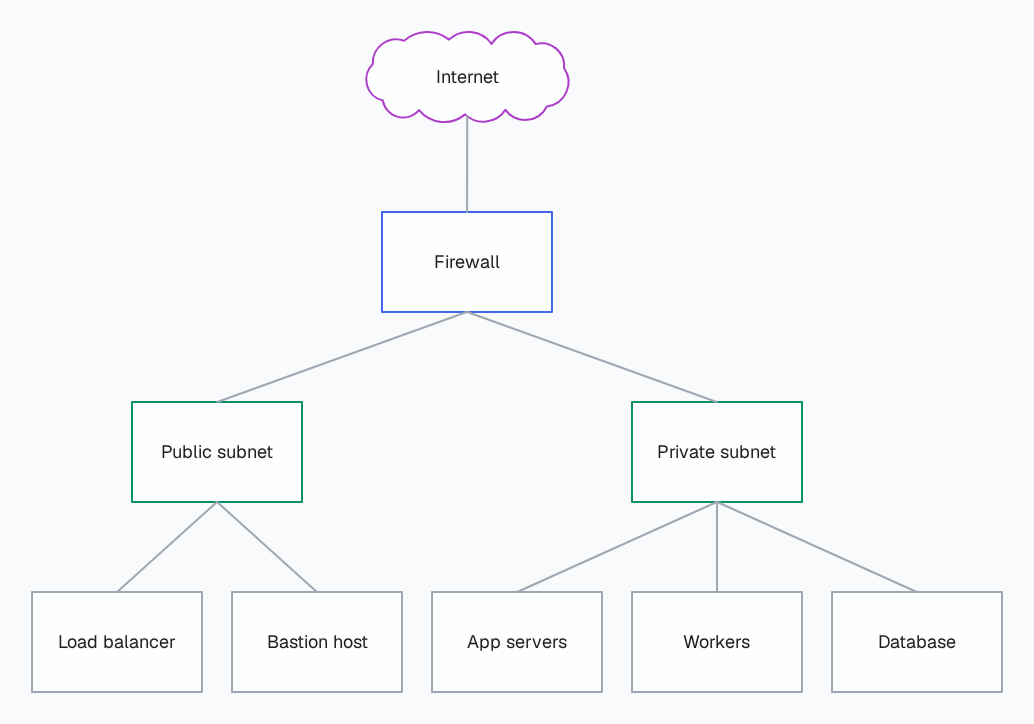
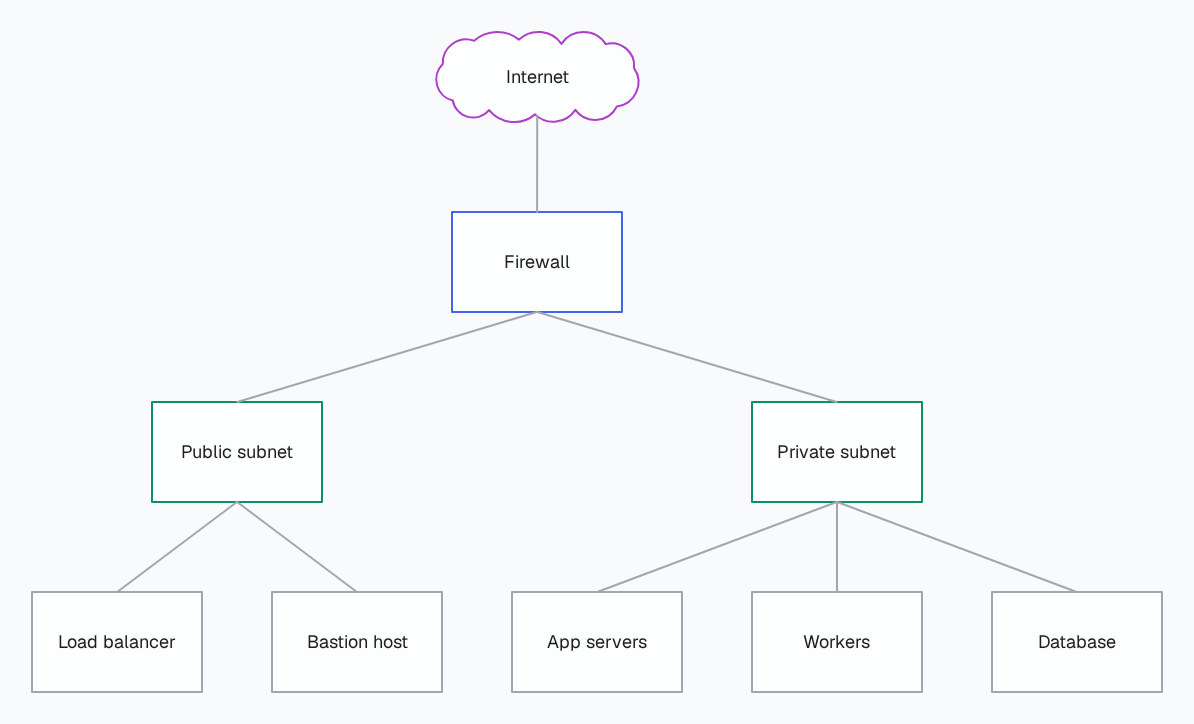
Fixes from review: drawing over a diagram, ids, sizes and timelines
A second drawing of the same kind took the first one's numbered keys and
rewrote it; it now lands beside it with a prefix, and --update is how to change
an earlier drawing. Repeated or non-Latin labels no longer collapse into one
box, and wide shapes no longer reach into a neighbour.

Lay it out again keeps people's box sizes, instead of growing diamonds on every
run, and handles nested frames and notes inside frames. Tidying leaves a
timeline's dates alone. A copied canvas keeps its type size, a duplicate keeps
its own key on both engines, redrawing updates arrows, and Excalidraw arrow
labels sit on the line whichever way it runs.

diff --git a/app/tidy.js b/app/tidy.js
@@ -3,6 +3,7 @@
 
 import { renderPlaintextFromRichText } from 'tldraw'
 import { LAYOUTS, sidesFor } from '../lib/layouts.mjs'
+import { getFormat } from './formats'
 
 export function makeTidy(editor, keyOf) {
 	const GRID = 10
@@ -39,6 +40,9 @@ export function makeTidy(editor, keyOf) {
 	const moved = (s, x, y) => Math.abs(s.x - x) > 0.5 || Math.abs(s.y - y) > 0.5
 
 	/** Boxes nearly in line are put in line: rows by their centres, then columns. */
+	// On a timeline a box's position and width are its dates, so tidying sideways would change what the diagram says.
+	const timed = () => getFormat()?.id === 'timeline'
+
 	function align({ tolerance = 40 } = {}) {
 		const at = new Map()
 		const pos = (s) => at.get(s.id) ?? { x: s.x, y: s.y }
@@ -56,7 +60,7 @@ export function makeTidy(editor, keyOf) {
 					const line = snap(median(row.map((s) => pos(s).y + local(s).h / 2)))
 					for (const s of row) set(s, { ...pos(s), y: line - local(s).h / 2 })
 				}
-				for (const col of clusters(group, (s) => pos(s).x + local(s).w / 2, tolerance)) {
+				for (const col of timed() ? [] : clusters(group, (s) => pos(s).x + local(s).w / 2, tolerance)) {
 					if (col.length < 2) continue
 					const line = snap(median(col.map((s) => pos(s).x + local(s).w / 2)))
 					for (const s of col) set(s, { ...pos(s), x: line - local(s).w / 2 })
@@ -85,7 +89,7 @@ export function makeTidy(editor, keyOf) {
 			}
 		}
 		for (const group of groups()) {
-			for (const row of clusters(group, (s) => s.y + local(s).h / 2, tolerance)) even(row, (s) => s.x, (s) => local(s).w, (x) => ({ x }))
+			for (const row of timed() ? [] : clusters(group, (s) => s.y + local(s).h / 2, tolerance)) even(row, (s) => s.x, (s) => local(s).w, (x) => ({ x }))
 			for (const col of clusters(group, (s) => s.x + local(s).w / 2, tolerance)) even(col, (s) => s.y, (s) => local(s).h, (y) => ({ y }))
 		}
 		return apply([...updates.values()])
@@ -93,6 +97,7 @@ export function makeTidy(editor, keyOf) {
 
 	/** Rectangles in a row become one height, and those in a column one width. Only ever larger, so no text is squeezed. */
 	function matchSizes({ tolerance = 40 } = {}) {
+		if (timed()) return 0
 		const size = new Map()
 		const cur = (s) => size.get(s.id) ?? { w: s.props.w, h: local(s).h }
 		// Rows and columns are judged by centres, which don't move here, so one pass is enough; a tallest stays tallest.
@@ -136,11 +141,12 @@ export function makeTidy(editor, keyOf) {
 						any = true
 						const [front, back] = a.x + a.w / 2 <= b.x + b.w / 2 ? [a, b] : [b, a]
 						const [top, low] = a.y + a.h / 2 <= b.y + b.h / 2 ? [a, b] : [b, a]
-						if (dx <= dy) (back.x += dx / 2 + 1, front.x -= dx / 2 + 1)
+						// On a timeline two things at once stack up, as the layout draws them: sideways would change their dates.
+						if (dx <= dy && !timed()) (back.x += dx / 2 + 1, front.x -= dx / 2 + 1)
 						else (low.y += dy / 2 + 1, top.y -= dy / 2 + 1)
 					}
 				}
-				for (const p of items) (p.x = moved(p.s, p.x, p.y) ? snap(p.x) : p.x), (p.y = moved(p.s, p.x, p.y) ? snap(p.y) : p.y)
+				for (const p of items) (p.x = moved(p.s, p.x, p.y) && !timed() ? snap(p.x) : p.x), (p.y = moved(p.s, p.x, p.y) ? snap(p.y) : p.y)
 				if (!any) break
 			}
 			changed += apply(items.flatMap((p) => (moved(p.s, p.x, p.y) ? [{ id: p.s.id, type: p.s.type, x: p.x, y: p.y }] : [])))
@@ -265,8 +271,10 @@ export function makeTidy(editor, keyOf) {
 
 	/** Lays everything out afresh with the same engine as the templates, frames included, following the arrows. */
 	async function layOut(toucan, { direction } = {}) {
+		if (timed()) throw new Error('On a timeline, position is the date, so this would change what the diagram says. Set a different format first if that is what you want.')
 		const dir = direction ?? mainDirection()
-		const frameOf = (s) => editor.getShapeAncestors(s).find((a) => a.type === 'frame')
+		// Ancestors run from the page down: the nearest frame is the last one.
+		const frameOf = (s) => editor.getShapeAncestors(s).findLast((a) => a.type === 'frame')
 		const boxes = pageShapes().filter((s) => s.type === 'geo' && !isMarker({ w: s.props.w, h: s.props.h + (s.props.growY ?? 0) }))
 		const known = new Set(boxes.map((s) => s.id))
 		const frames = pageShapes().filter((s) => s.type === 'frame' && boxes.some((b) => frameOf(b)?.id === s.id))
@@ -278,6 +286,7 @@ export function makeTidy(editor, keyOf) {
 		const placed = await LAYOUTS.flow({
 			direction: dir,
 			route: 'straight',
+			keepSizes: true,
 			gap: 50,
 			layerGap: 90,
 			groups: frames.map((f) => ({ id: f.id, label: f.props.name })),
@@ -287,7 +296,11 @@ export function makeTidy(editor, keyOf) {
 		const origin = editor.getCurrentPageBounds() ?? { x: 0, y: 0 }
 		const frameBox = new Map(placed.groups.map((g) => [g.key, g.box]))
 		editor.updateShapes([
-			...placed.groups.map((g) => ({ id: g.key, type: 'frame', x: origin.x + g.box.x, y: origin.y + g.box.y, props: { w: g.box.w, h: g.box.h } })),
+			...placed.groups.map((g) => {
+				// A frame can sit inside another, and its box is in page coordinates.
+				const { x, y } = editor.getPointInParentSpace(g.key, { x: origin.x + g.box.x, y: origin.y + g.box.y })
+				return { id: g.key, type: 'frame', x, y, props: { w: g.box.w, h: g.box.h } }
+			}),
 			...placed.nodes.map((n) => {
 				const f = n.group && frameBox.get(n.group)
 				const s = editor.getShape(n.key)
@@ -295,6 +308,9 @@ export function makeTidy(editor, keyOf) {
 			}),
 		])
 		neatArrows()
+		// What wasn't laid out, like a person's sticky note or an inner frame's outer frame, is still inside: frames grow to hold it.
+		const holdsMore = pageShapes().some((s) => s.type !== 'arrow' && s.type !== 'geo' && editor.getShape(s.parentId)?.type === 'frame')
+		if (holdsMore) fitFrames()
 		return placed.nodes.length
 	}
 	const toucanText = (s) => (s.props.richText ? renderPlaintextFromRichText(editor, s.props.richText) : '')

diff --git a/app/helpers.js b/app/helpers.js
@@ -518,7 +518,15 @@ export function makeHelpers(editor) {
 			if (existing) {
 				const props = { ...styleProps(st, 'arrow'), ...(e.label !== undefined && { richText: toRichText(e.label ?? '') }) }
 				if (st.route) props.kind = st.route === 'elbow' ? 'elbow' : 'arc'
+				if (st.bend !== undefined) props.bend = st.bend
+				if (st.head) props.arrowheadEnd = st.head === 'none' ? 'none' : 'arrow'
+				if (st.labelAt !== undefined) props.labelPosition = st.labelAt
 				editor.updateShape({ id: existing.id, type: 'arrow', props, meta: { ...existing.meta, ...e.meta, key, from: e.from, to: e.to } })
+				if (st.anchors) {
+					const ends = editor.getBindingsFromShape(existing, 'arrow')
+					const at = { start: st.anchors.from, end: st.anchors.to }
+					editor.updateBindings(ends.filter((b) => at[b.props.terminal]).map((b) => ({ id: b.id, type: 'arrow', props: { ...b.props, normalizedAnchor: at[b.props.terminal], isPrecise: true, isExact: false } })))
+				}
 				out.updated++
 			} else {
 				edge(e.from, e.to, { text: e.label ?? '', color: st.color ?? 'grey', dash: st.dash ?? 'solid', size: st.size ?? 's', kind: st.route === 'elbow' ? 'elbow' : 'arc', bend: st.bend ?? 0, head: st.head, anchors: st.anchors, labelAt: st.labelAt, meta: e.meta ?? {} })

diff --git a/app/excalidraw-helpers.js b/app/excalidraw-helpers.js
@@ -14,7 +14,11 @@ const elk = new ELK()
 export function makeExcalidrawHelpers(api, ex) {
 	const all = () => api.getSceneElementsIncludingDeleted()
 	const live = () => api.getSceneElements()
-	const keyOf = (e) => e.customData?.key ?? e.id
+	// A duplicated element keeps its original's customData.key, and the key belongs to the first.
+	const keyOf = (e) => {
+		const key = e.customData?.key
+		return key && shapes().find((o) => o.customData?.key === key)?.id === e.id ? key : e.id
+	}
 	const shapes = () => live().filter((e) => !(e.type === 'text' && e.containerId))
 	const get = (key) => shapes().find((e) => keyOf(e) === key)
 	const labelOf = (e, els = live()) => (e.boundElements ?? []).map((b) => els.find((t) => t.id === b.id)).find((t) => t?.type === 'text')

diff --git a/AGENTS.md b/AGENTS.md
@@ -28,7 +28,7 @@ node bin/toucan.mjs --canvas NAME routine run NAME [--args JSON]   # run a banke
 node bin/toucan.mjs --canvas NAME files                     # where this canvas keeps what agents write for it
 node bin/toucan.mjs templates                                  # diagrams to start from; `new NAME --template ID` makes one
 node bin/toucan.mjs templates show ID                          # a template's description, to copy the form of
-node bin/toucan.mjs --canvas NAME draw FILE|- [--move] [--label T]   # lay out a diagram described as data onto a canvas
+node bin/toucan.mjs --canvas NAME draw FILE|- [--update] [--move] [--label T]   # lay out a diagram described as data onto a canvas
 node bin/toucan.mjs --canvas NAME threads [--all] | show N | new TEXT --on KEY,KEY | --region X,Y,W,H [--ask] | reply N TEXT [--ask] | close N [--reply T] | reopen N | adopt-notes   # comment threads
 ```
 
@@ -187,7 +187,7 @@ format; then change its boxes with `toucan.node`, or `import` more.
 
 To draw on a canvas you're already on, describe the diagram as data and let the engine place it: `toucan templates show flowchart` shows the form,
 and `toucan --canvas NAME draw plan.json` lays it out beside what's there. Each `kind` (flow, tree, mindmap, lanes, grid, board, quadrant, timeline, gantt,
-sequence, fishbone, funnel, stack, cycle) has its own fields, and a box's `detail` is what opens on click. Drawing again with the same ids updates those boxes.
+sequence, fishbone, funnel, stack, cycle) has its own fields, and a box's `detail` is what opens on click. A new drawing never overwrites what's there: if its keys clash it takes a prefix, which the command reports. To change an earlier drawing, draw it again with `--update`, and `--move` to reposition its boxes too.
 
 `toucan.measure()` measures the diagram as drawn and returns a `score` out of 100 and `findings`, each naming the shapes involved: overlaps, text that
 outgrew its box, arrows through boxes, crossings, labels on boxes, boxes cut off by a frame. `routine run check-diagram` reports the same and points at

diff --git a/website/content/agents.md b/website/content/agents.md
@@ -28,7 +28,7 @@ toucan --canvas NAME routine run NAME [--args JSON]   # run a banked routine: on
 toucan --canvas NAME files                     # where this canvas keeps what agents write for it
 toucan templates                                  # diagrams to start from; `new NAME --template ID` makes one
 toucan templates show ID                          # a template's description, to copy the form of
-toucan --canvas NAME draw FILE|- [--move] [--label T]   # lay out a diagram described as data onto a canvas
+toucan --canvas NAME draw FILE|- [--update] [--move] [--label T]   # lay out a diagram described as data onto a canvas
 toucan --canvas NAME threads [--all] | show N | new TEXT --on KEY,KEY | --region X,Y,W,H [--ask] | reply N TEXT [--ask] | close N [--reply T] | reopen N | adopt-notes   # comment threads
 ```
 
@@ -172,7 +172,7 @@ format; then change its boxes with `toucan.node`, or `import` more.
 
 To draw on a canvas you're already on, describe the diagram as data and let the engine place it: `toucan templates show flowchart` shows the form,
 and `toucan --canvas NAME draw plan.json` lays it out beside what's there. Each `kind` (flow, tree, mindmap, lanes, grid, board, quadrant, timeline, gantt,
-sequence, fishbone, funnel, stack, cycle) has its own fields, and a box's `detail` is what opens on click. Drawing again with the same ids updates those boxes.
+sequence, fishbone, funnel, stack, cycle) has its own fields, and a box's `detail` is what opens on click. A new drawing never overwrites what's there: if its keys clash it takes a prefix, which the command reports. To change an earlier drawing, draw it again with `--update`, and `--move` to reposition its boxes too.
 
 `toucan.measure()` measures the diagram as drawn and returns a `score` out of 100 and `findings`, each naming the shapes involved: overlaps, text that
 outgrew its box, arrows through boxes, crossings, labels on boxes, boxes cut off by a frame. `routine run check-diagram` reports the same and points at

diff --git a/CHANGELOG.md b/CHANGELOG.md
@@ -11,6 +11,7 @@ All notable changes to toucan are recorded here. The format follows
 - `toucan draw FILE`: describe a diagram as data, in the same form as a template, and the layout engine places it on the canvas. The chat agent is told to draw this way.
 - A Mermaid import on a blank canvas now looks like a template: small type, boxes measured for their text, arrows in elbows along the sides.
 - A gallery of every template in the docs, built from the eval's pictures.
+- Tidying respects a timeline: a box's position and width are its dates, so clean-up won't shift them sideways, overlaps stack, and Lay it out again declines.
 - Tidying routines: **Clean up**, **Lay it out again**, **Line things up**, **Even out the gaps**, **Match box sizes**, **Fix overlaps**, **Fit frames**, **Neat arrows** and **Colour by frame**. Each keeps boxes, frames and connections, never moves a sticky note, and changes nothing when run again.
 - **Check this diagram**, and `toucan.measure()`: a score out of 100 and what's wrong, measured from what's drawn and naming the shapes involved.
 - `npm run test:diagrams`: makes every template, scores it, knocks eight of them about and runs every routine on them. Scores can't fall below `evals/baseline.json`.

diff --git a/README.md b/README.md
@@ -114,7 +114,7 @@ toucan [--canvas NAME] <command>
   versions [save LABEL | show N [--format F] | restore N]   the canvas's history
   threads [--all] | show N | new TEXT --on KEY,KEY | --region X,Y,W,H [--ask] | reply N TEXT [--ask] | close N [--reply T] | reopen N | adopt-notes
   templates [show ID]         diagrams to start from (new NAME --template ID)
-  draw FILE|- [--move]        lay out a diagram described as data onto the canvas
+  draw FILE|- [--update]      lay out a diagram described as data onto the canvas
   files                       where this canvas keeps what agents write for it
   routine list | show NAME | run NAME [--args JSON] | save NAME FILE [--title T] [--description D] [--engines E] | rm NAME
 ```
